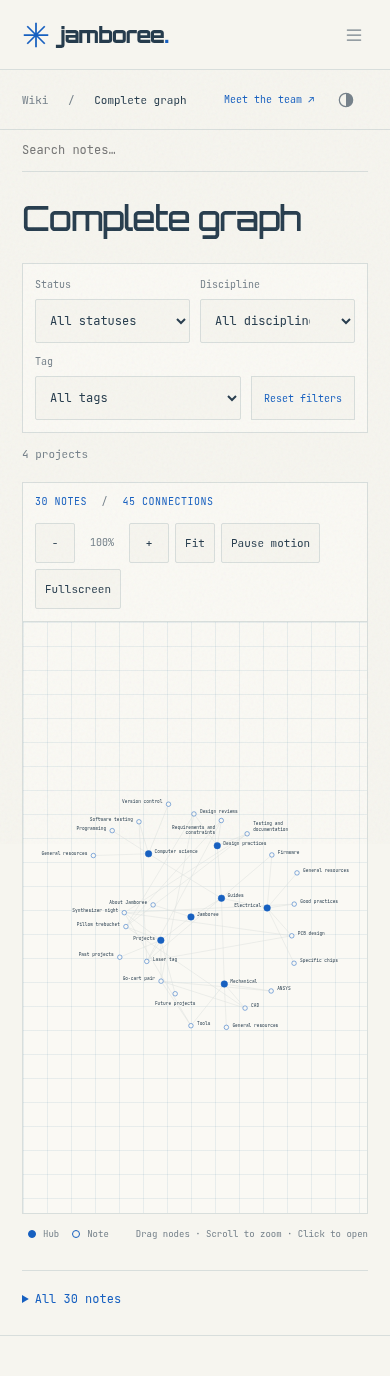
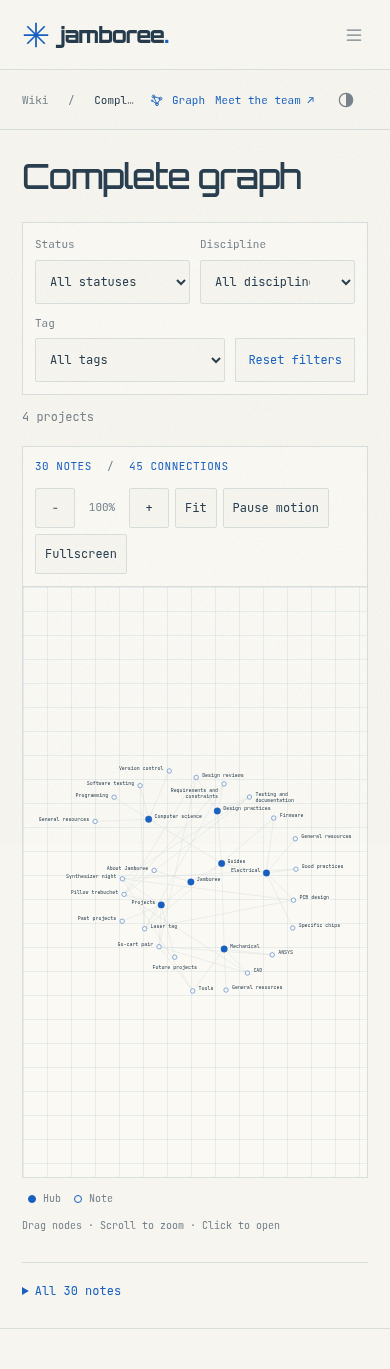
Move search into the sidebar and graph navigation into the header

diff --git a/assets/features.css b/assets/features.css
@@ -56,3 +56,65 @@ a.tag:hover { border-color: var(--blue); }
   .markdown-table th, .markdown-table td { padding: 10px; }
 }
 .article .project-card .drawing { margin: 0; }
+/* Search is an input in the sidebar; the graph stays available in the header. */
+.sidebar-search { position: relative; display: flex; align-items: center; gap: 8px; margin: 0 0 28px; border: 1px solid var(--line); border-radius: 3px; padding: 0 9px; background: var(--panel); color: var(--muted); }
+.sidebar-search:focus-within { border-color: var(--blue); }
+.sidebar-search .search-icon { font-size: 17px; }
+.sidebar-search input { display: block; flex: 1; min-width: 0; width: 100%; height: 40px; padding: 6px 0; color: var(--ink); background: transparent; border: none; outline: none; font: 11px var(--font-body); }
+.sidebar-search input::placeholder { color: var(--muted); opacity: 1; }
+.sidebar-search kbd { font: 10px var(--font-body); }
+.sidebar-search #search-results { left: 0; top: calc(100% + 6px); width: min(360px, calc(100vw - 50px)); max-height: 350px; overflow-y: auto; background: var(--panel); box-shadow: 0 12px 30px #0002; border-radius: 3px; z-index: 30; }
+.sidebar-search #search-results:empty { display: none; }
+.sidebar-search #search-results:not(:empty) { border: 1px solid var(--line); }
+.sidebar-search #search-results a { font-size: 11px; overflow-wrap: anywhere; padding: 12px; }
+.sidebar-search #search-results small { display: block; margin-top: 4px; font-size: 9px; color: var(--muted); }
+.header-graph-link { font-size: 11px; color: var(--muted); white-space: nowrap; padding: 8px 0; }
+.header-graph-link:hover, .header-graph-link.active { color: var(--blue); }
+.graph-link-short { display: none; }
+@media (max-width: 1100px) {
+  .graph-link-full { display: none; }
+  .graph-link-short { display: inline; }
+  .top-actions { gap: 10px; }
+}
+@media (max-width: 760px) {
+  .sidebar-search { margin-bottom: 18px; }
+  .sidebar-search input { height: 44px; font-size: 12px; }
+  .sidebar-search #search-results { width: 100%; max-height: 260px; }
+  .header-graph-link { font-size: 10px; }
+}
+/* Increase secondary text without changing the display headings. */
+body { font-size: 14px; }
+.edition, .nav-label, .rail-title, .graph-head, .eyebrow { font-size: 11px; }
+.rightbar { font-size: 12px; }
+#toc a { padding: 6px 0; }
+footer { font-size: 10px; }
+.project-meta { font-size: 10px; }
+.drawing-label { font-size: 10px; }
+.project-body p { font-size: 12px; }
+.project-bottom { font-size: 10px; }
+.guide-card p { font-size: 12px; }
+.section-description { font-size: 13px; }
+.tag { font-size: 11px; }
+.project-card-details { font-size: 10px; }
+.project-filters label { font-size: 11px; }
+.project-filters select, .project-filters button, .project-empty button { font-size: 12px; }
+.project-results-summary, .graph-filter-summary { font-size: 12px; }
+.project-facts dt, .project-progress h2 { font-size: 11px; }
+.project-facts dd, .project-progress p { font-size: 13px; }
+.markdown-table table { font-size: 12px; }
+.article-body pre { font-size: 12px; }
+.article-backlinks > p, .backlink-list a { font-size: 12px; }
+.backlink-list small { font-size: 10px; }
+.graph-note-directory span { font-size: 13px; }
+.graph-note-directory small { font-size: 11px; }
+.full-graph-stats, [data-graph-level] { font-size: 11px; }
+.full-graph-controls button { font-size: 12px; }
+.full-graph-caption, .local-graph-panel .graph-caption { font-size: 11px; }
+.sidebar-search input, .sidebar-search #search-results a { font-size: 12px; }
+.sidebar-search #search-results small { font-size: 11px; }
+.header-graph-link, .main-site-link, .breadcrumb { font-size: 12px; }
+@media (max-width: 760px) {
+  .sidebar-search input { font-size: 16px; }
+  .header-graph-link, .main-site-link, .breadcrumb { font-size: 11px; }
+  .full-graph-caption { font-size: 10px; }
+}

diff --git a/index.html b/index.html
@@ -18,13 +18,12 @@
     </div>
     <div class="sidebar-menu" id="sidebar-menu">
       <div class="edition">OPEN ENGINEERING CLUB</div>
-      <button class="search-trigger" type="button">⌕ <span>Find a note</span><kbd>/</kbd></button>
+      <div class="sidebar-search"><span class="search-icon" aria-hidden="true">⌕</span><input id="search" type="search" placeholder="Find a note" aria-label="Search notes" autocomplete="off"><kbd aria-hidden="true">/</kbd><div id="search-results" aria-live="polite"></div></div>
       <div class="nav-label">WIKI</div>
       <nav aria-label="Fieldbook">
         <a href="#/" data-nav="index">⌂ <span>Overview</span></a>
         <a href="#/projects/index" data-nav="projects">▧ <span>Projects</span><small>04</small></a>
         <a href="#/guides/index" data-nav="guides">⊞ <span>Guides</span></a>
-        <a href="#/graph" data-nav="graph" class="graph-tab-link"><svg viewBox="0 0 20 20" aria-hidden="true"><path d="m5 5 10 3-5 8-5-11m5 11L3 11"/><circle cx="5" cy="5" r="2"/><circle cx="15" cy="8" r="2"/><circle cx="10" cy="16" r="2"/><circle cx="3" cy="11" r="1"/></svg><span>Complete graph</span></a>
       </nav>
       <div class="nav-label">BY DISCIPLINE</div>
       <nav class="disciplines" aria-label="Disciplines">
@@ -44,12 +43,12 @@
     <header>
       <div class="breadcrumb">Wiki <span>/</span> <strong id="crumb">Overview</strong></div>
       <div class="top-actions">
+        <a href="#/graph" aria-label="Complete graph" data-nav="graph" class="graph-tab-link header-graph-link"><svg viewBox="0 0 20 20" aria-hidden="true"><path d="m5 5 10 3-5 8-5-11m5 11L3 11"/><circle cx="5" cy="5" r="2"/><circle cx="15" cy="8" r="2"/><circle cx="10" cy="16" r="2"/><circle cx="3" cy="11" r="1"/></svg><span class="graph-link-full">Complete graph</span><span class="graph-link-short">Graph</span></a>
         <a class="main-site-link" href="#/main-site" data-main-site>Meet the team <span aria-hidden="true">↗</span></a>
         <div class="social-links desktop-socials" role="group" aria-label="Club social links"><button class="icon-button" type="button" data-social="youtube" aria-label="YouTube" title="YouTube"><svg viewBox="0 0 24 24" aria-hidden="true"><rect x="3" y="6" width="18" height="12" rx="3"/><path d="m10 9 5 3-5 3z"/></svg></button><button class="icon-button" type="button" data-social="instagram" aria-label="Instagram" title="Instagram"><svg viewBox="0 0 24 24" aria-hidden="true"><rect x="3.5" y="3.5" width="17" height="17" rx="5"/><circle cx="12" cy="12" r="4"/><circle cx="17.5" cy="6.5" r=".8" fill="currentColor" stroke="none"/></svg></button><a class="icon-button" data-social="github" href="https://github.com/syntonos/jamboree-wiki" target="_blank" rel="noopener noreferrer" aria-label="GitHub" title="GitHub"><svg viewBox="0 0 24 24" aria-hidden="true"><path d="M9 20c-4.5 1.5-4.5-2-6-2.5M15 22v-4a3.5 3.5 0 0 0-1-2.8c3.3-.4 6.7-1.6 6.7-7.3A5.7 5.7 0 0 0 19.2 4a5.3 5.3 0 0 0-.1-3s-1.2-.4-4.1 1.5a14 14 0 0 0-7 0C5.1.6 3.9 1 3.9 1a5.3 5.3 0 0 0-.1 3A5.7 5.7 0 0 0 2.3 8c0 5.7 3.4 6.9 6.7 7.3A3.5 3.5 0 0 0 8 18v4" transform="translate(1 1) scale(.92)"/></svg></a></div>
         <button class="icon-button" id="theme" type="button" aria-label="Switch to dark mode" title="Switch to dark mode" aria-pressed="false"><svg class="theme-icon" viewBox="0 0 24 24" aria-hidden="true"><circle cx="12" cy="12" r="8"/><path d="M12 4a8 8 0 0 1 0 16Z" fill="currentColor" stroke="none"/></svg></button>
       </div>
     </header>
-    <div class="search-area"><input id="search" placeholder="Search notes…" aria-label="Search notes"><div id="search-results"></div></div>
     <div class="page-layout">
       <main id="main"></main>
       <aside class="rightbar">

diff --git a/assets/full-graph.js b/assets/full-graph.js
@@ -115,7 +115,7 @@
       const right = Math.cos(node.angle || 0) >= 0, x = right ? 21 : -21;
       const title = node.slug === 'index' ? 'Jamboree' : node.title;
       const hub = node.children.length > 0;
-      return `<a href="${href(node)}" class="graph-node ${local ? 'local' : 'full'}-graph-node ${hub ? 'is-hub' : ''}" data-slug="${escape(node.slug)}" aria-label="Open ${escape(title)}"><title>${escape(title)}</title><g><circle class="node-hit" r="25"/><circle class="node-dot" r="${hub ? (local ? 17 : 13) : (local ? 12 : 9)}"/><text x="${x}" y="-3" text-anchor="${right ? 'start' : 'end'}">${labelLines(title, local ? 14 : 20).map((line, index) => `<tspan x="${x}" dy="${index ? (local ? 32 : 21) : 0}">${escape(line)}</tspan>`).join('')}</text></g></a>`;
+      return `<a href="${href(node)}" class="graph-node ${local ? 'local' : 'full'}-graph-node ${hub ? 'is-hub' : ''}" data-slug="${escape(node.slug)}" aria-label="Open ${escape(title)}"><title>${escape(title)}</title><g><circle class="node-hit" r="25"/><circle class="node-dot" r="${hub ? (local ? 17 : 13) : (local ? 12 : 9)}"/><text x="${x}" y="-3" text-anchor="${right ? 'start' : 'end'}">${labelLines(title, local ? 14 : 20).map((line, index) => `<tspan x="${x}" dy="${index ? (local ? 36 : 24) : 0}">${escape(line)}</tspan>`).join('')}</text></g></a>`;
     }).join('')}</g>`;
     const world = svg.querySelector('.graph-world');
     const anchors = [...svg.querySelectorAll('.graph-node')];
@@ -126,9 +126,9 @@
     function measureLabels() {
       for (const label of labels) {
         const box = label.text.getBBox();
-        const fontSize = local ? 30 : 18;
+        const fontSize = local ? 34 : 20;
         label.width = box.width || Math.max(...[...label.text.querySelectorAll('tspan')].map(line => line.textContent.length)) * fontSize * .6;
-        label.height = box.height || label.text.querySelectorAll('tspan').length * (local ? 32 : 21);
+        label.height = box.height || label.text.querySelectorAll('tspan').length * (local ? 36 : 24);
         label.fontSize = fontSize;
       }
     }

diff --git a/assets/full-graph.css b/assets/full-graph.css
@@ -22,7 +22,7 @@
 .graph-node .node-hit, #graph .node-hit { fill: transparent; stroke: none; }
 .graph-node .node-dot, #graph .node-dot { fill: var(--panel); stroke: var(--blue); stroke-width: 2; }
 .graph-node.is-hub .node-dot, #graph .is-hub .node-dot { fill: var(--blue); }
-.graph-node text, #graph .graph-node text { fill: var(--ink); font: 18px var(--font-body); }
+.graph-node text, #graph .graph-node text { fill: var(--ink); font: 20px var(--font-body); }
 .graph-node:hover .node-dot, .graph-node:focus .node-dot { stroke-width: 5; }
 .graph-node:hover text, .graph-node:focus text { fill: var(--blue); }
 .has-highlight .graph-node:not(.is-neighbor) { opacity: .28; }
@@ -59,7 +59,7 @@
 .graph-node text { paint-order: stroke fill; stroke: var(--panel); stroke-width: 4px; stroke-linejoin: round; }
 .graph-node.label-collides text { visibility: hidden; }
 .graph-node.label-collides:hover text, .graph-node.label-collides:focus text { visibility: visible; }
-#graph .graph-node text { font-size: 30px; }
+#graph .graph-node text { font-size: 34px; }
 
 .graph-project-filters { margin-bottom: 12px; }
 .graph-filter-summary { margin: 0 0 18px; color: var(--muted); font-size: 11px; }

diff --git a/assets/app.js b/assets/app.js
@@ -147,17 +147,13 @@ $('#sidebar-menu').addEventListener('click', event => {
   if (event.target.closest('a')) setMenu(false);
 });
 $('.brand').addEventListener('click', () => setMenu(false));
-$('.search-trigger').addEventListener('click', () => {
-  setMenu(false);
-  $('#search').focus();
-});
 document.addEventListener('click', event => {
   if (mobileLayout.matches && !event.target.closest('.sidebar, dialog')) setMenu(false);
 });
 document.addEventListener('keydown', event => {
   if (event.key === '/' && !['INPUT', 'TEXTAREA'].includes(document.activeElement.tagName) && !$('#social-dialog').open) {
     event.preventDefault();
-    setMenu(false);
+    setMenu(mobileLayout.matches);
     $('#search').focus();
   }
   if (event.key === 'Escape') {

diff --git a/README.md b/README.md
@@ -22,3 +22,6 @@ The Projects hub and Complete graph share status, discipline, and tag filters th
 Each note shows incoming links under Linked from. Write Markdown links or `[[wiki-links]]` to connect notes; the builder generates backlinks and graph edges from the same resolved links. Heading anchors and relative note paths work in both the renderer and validator.
 
 Markdown pipe tables render BOMs and other tabular data. Place CAD, STEP/STL, KiCad, PDF, CSV, SVG, or other files in `assets/resources/<project>/` and link to them from the note. Local file links become downloads. Starter CSVs, concept diagrams, and editable briefs are included for all four current projects; they are planning materials rather than completed engineering designs. Leads and contacts start unassigned. Dates reflect the documentation update, not physical build progress.
+
+## Navigation and search
+The Complete graph link is in the top header. Find a note is an editable search field in the sidebar; on mobile it is inside the hamburger menu. Press `/` to focus search (and open the mobile menu when necessary); Escape clears it.
